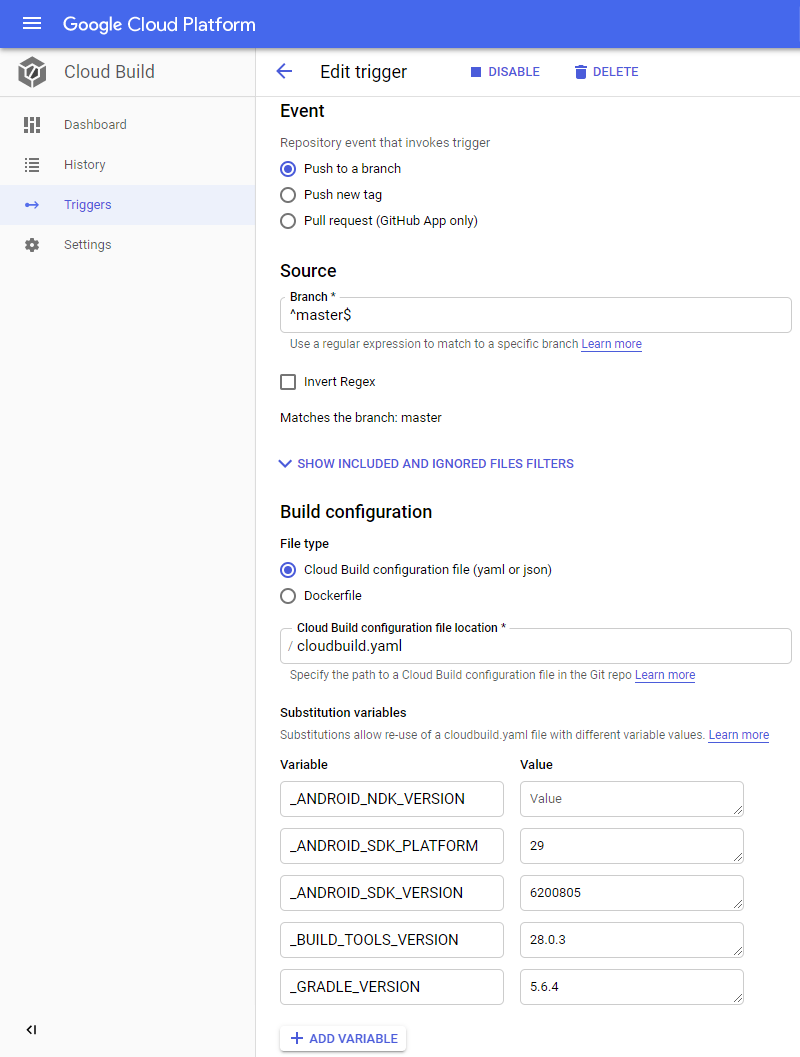
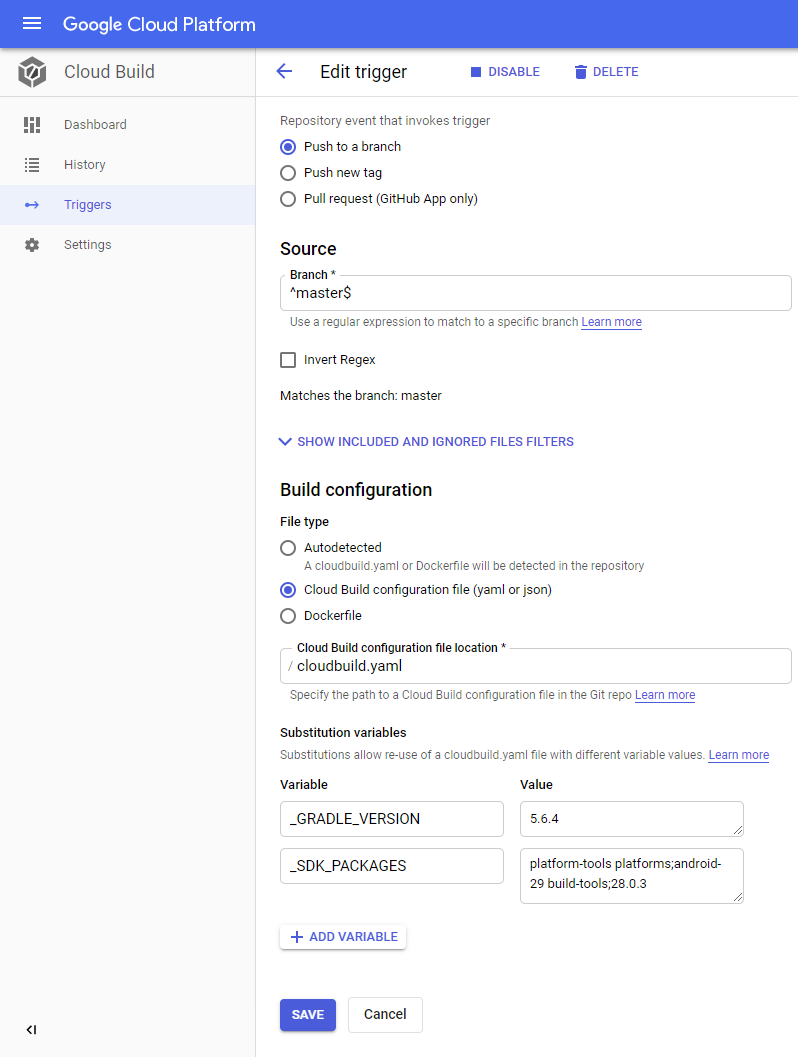
Substitution _SDK_PACKAGES provides more flexibility.

diff --git a/README.md b/README.md
@@ -18,13 +18,10 @@
 # Variable Substitutions
 
 Meanwhile one can install packages with the `sdkmanager`, when passing variables.<br/>
-At the moment these are statically set in [`cloudbuild.yaml`](https://github.com/syslogic/cloudbuild-android/blob/master/cloudbuild.yaml#L17), but the code is there.
+At the moment these are statically set in [`cloudbuild.yaml`](https://github.com/syslogic/cloudbuild-android/blob/master/cloudbuild.yaml), but the code is there.
 
- - `_ANDROID_NDK_VERSION` ~ `21.1.6352462`
- - `_ANDROID_SDK_PLATFORM` ~ `29`
- - `_ANDROID_SDK_VERSION` ~ `6200805` 
- - `_BUILD_TOOLS_VERSION` ~ `28.0.3`
  - `_GRADLE_VERSION` ~ `5.6.4`
+ - `_SDK_PACKAGES` ~ `platform-tools platforms;android-29 build-tools;28.0.3`
 
 # Usage examples
 
